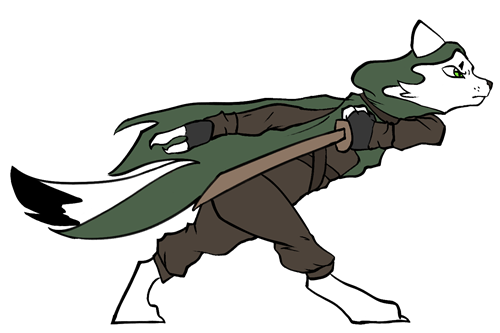
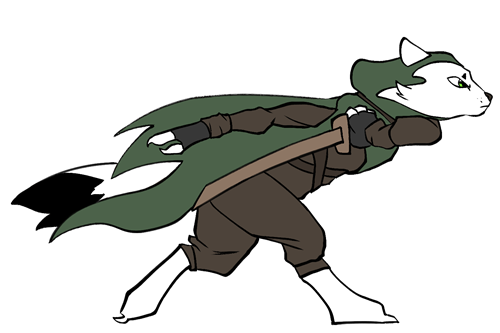
implemented running animation

Changed region(s): [[0.0, 0.0601, 0.99, 0.991], [0.45, 0.6607, 0.48, 0.6907]]

diff --git a/src/project.py b/src/project.py
@@ -9,18 +9,43 @@ import objects
  # Week 3: Implement obstacle destruction animation and menu
  
 class Player(pygame.sprite.Sprite):
-    def __init__(self, img, x, y):
+    def __init__(self, x, y):
         pygame.sprite.Sprite.__init__(self)
-        self.image = pygame.image.load(img)
-        self.rect = self.image.get_rect()
+        self.alive = False #Checks if player collided with anything
+        self.animation_list = self._frame_loader()
+        self.frame_num = 0
+        self.img = self.animation_list[self.frame_num]
+        self.rect = self.img.get_rect()
         self.rect.y = y
         self.rect.x = x
-        #Jump related variables
+        self.anim_cooldown = 1
+
+    def _frame_loader(self):
+        running_anim = 8
+        animation_list = []
+        for x in range(running_anim):
+            animation_list.append(pygame.image.load(f"fp_run_{x}.png"))
+
+         
+        return animation_list    
+
         
 
-    def update(self, kb):
-        for event in pygame.event.get():
-            error = 0
+    def update(self):
+        if self.anim_cooldown != 0:
+            self.anim_cooldown -= 1
+        else: 
+            if self.frame_num < 7:
+                self.frame_num += 1
+            else:
+                self.frame_num = 0
+            self.anim_cooldown = 1    
+ 
+        self.img = self.animation_list[self.frame_num]
+        #self.rect = self.img.get_rect(center=(self.rect.y, self.rect.x))
+
+
+            
 
 
 
@@ -41,8 +66,10 @@ def main():
     dt = 0
     ##Images
     background = pygame.image.load("forest.png")
-    player = Player("marten.png", 100, 455)
+    player = Player(0, 487)
     bush = objects.Bush("bush.png")
+    web = objects.Web("web.png")
+    lumberjack = objects.Lumberjack("lumberjack.png")
     ##Mechanics
     jumping = False
     y_velocity = 15
@@ -56,16 +83,17 @@ def main():
                 running = False
                 
         keys = pygame.key.get_pressed()
+        ##Jumping 
         #Checks if player is on ground before jumping
-        if player.rect.y >= 455:
+        if player.rect.y >= 487:
             on_ground = True
-        elif player.rect.y < 455:
+        elif player.rect.y < 487:
             on_ground = False
         else: #This line is in case the player goes past the ground
-            player.rect.y = 455
+            player.rect.y = 487
             on_ground = True   
 
-        if keys[pygame.K_SPACE]:
+        if keys[pygame.K_UP]:
             jumping = True
 
         if jumping:
@@ -76,15 +104,16 @@ def main():
             if on_ground and y_velocity <= -15:
                 jumping = False    
                 y_velocity = 15
-                player.rect.y = 455
+                player.rect.y = 487
 
         #Render and Display
         pygame.display.flip()
         screen.fill(color="black")
         screen.blit(background, (0, 0))
-        screen.blit(player.image, player.rect)
-        screen.blit(bush.image, bush.pos)
-        bush.update()
+        screen.blit(player.img, player.rect)
+        screen.blit(web.image, web.pos)
+        web.update()
+        player.update()
         dt = clock.tick(24)
 
 

diff --git a/src/jumptest.py b/src/jumptest.py
@@ -1,0 +1,59 @@
+import pygame
+# Needs a float variable that increases the y value by itself while taking away 0.1 of itself every frame. Once it becomes the negative value of its starting number
+# it stops decreasing. It will automatically be reset once the player hits the floor and jumping = False. 
+def main():
+    pygame.init()
+    resolution = 1000, 800
+    screen = pygame.display.set_mode(resolution)
+    ##System
+    running = True
+    clock = pygame.time.Clock()
+    dt = 0
+    player = pygame.image.load("marten.png")
+    player_rect = player.get_rect()
+    player_rect.x = 100
+    player_rect.y = 455
+    #Relevant code
+    jumping = False
+    y_velocity = 15
+    on_ground = True
+
+    while running == True:
+        
+        for event in pygame.event.get():
+            if event.type == pygame.QUIT:
+                running = False
+
+        #Relevant code
+        keys = pygame.key.get_pressed()
+        #Checks if player is on ground before jumping
+        if player_rect.y >= 455:
+            on_ground = True
+        elif player_rect.y < 455:
+            on_ground = False
+        else: #This line is in case the player goes past the ground
+            player_rect.y = 455
+            on_ground = True   
+
+        if keys[pygame.K_SPACE] and on_ground:
+            jumping = True
+            
+        if jumping:
+            player_rect.y -= y_velocity
+            if y_velocity != -15:
+                y_velocity -= 0.25
+
+            if on_ground and y_velocity <= -15:
+                jumping = False    
+                y_velocity = 15
+                player_rect.y = 455
+            
+
+        pygame.display.flip()
+        screen.fill(color="black")
+        screen.blit(player, player_rect)        
+        dt = clock.tick(24)            
+        
+
+if __name__ == "__main__":
+     main()                
